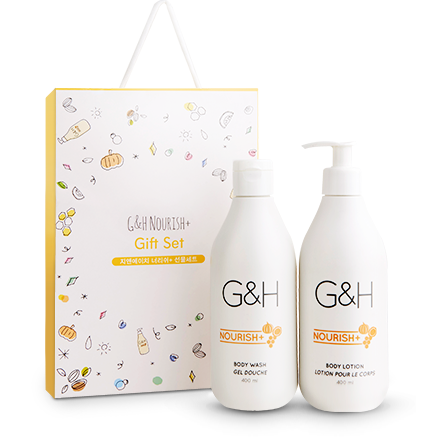
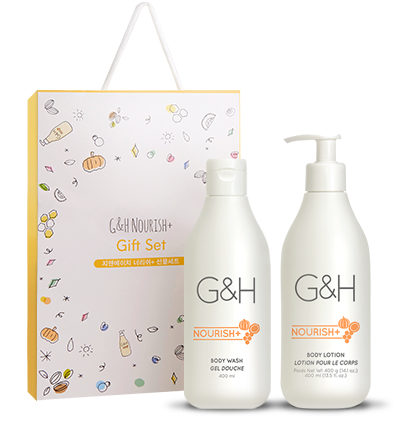
마이그레이션 베스바디

diff --git a/_ui/responsive/theme-blue/css/akl-product.css b/_ui/responsive/theme-blue/css/akl-product.css
@@ -149,6 +149,7 @@ iframe {border:0;}
 .visual-area.type02.verganic-botanical{background: #ffffff url(../images/akl_product/bath-body/bg_verganic_jojoba.png) no-repeat top center;height:924px;} /* 베르가닉 호호바 */
 .visual-area.type02.child-tooth{background: #ffffff url(../images/akl_product/bath-body/bg_child_tooth.png) no-repeat top center;height:1012px;} /* 오랄케어 */
 .visual-area.type04.bath-gift-s{background: #ffffff url(../images/akl_product/bath-body/bg_gift_set_s.png) no-repeat top center;height:851px;} /* 기프트세트 mini */
+.visual-area.type04.bath-gift-s02{background: #ffffff url(../images/akl_product/bath-body/bg_gift_set_s_02.png) no-repeat top center;height:834px;} /* 기프트세트 mini */
 .visual-area.type04.bath-gift-ss{background: #ffffff url(../images/akl_product/bath-body/bg_gift_set_ss.png) no-repeat top center;height:775px;} /* 기프트세트 mini */
 .visual-area.type04.bath-gift-s .v-pro, .visual-area.type04.bath-gift-ss .v-pro{margin-top:60px;}
 .visual-area.type02.dayblock{background: #ffffff url(../images/akl_product/bath-body/bg_dayblock_sun.png) no-repeat top center;height:976px;} /* 데이블럭 썬케어  */

diff --git a/_ui/responsive/html/product/bath_body/giftset/BB_1302_personar_care_essential_gift_set.html b/_ui/responsive/html/product/bath_body/giftset/BB_1302_personar_care_essential_gift_set.html
@@ -60,7 +60,7 @@
 									<div class="product-body-view bath-body">
 
 										<!-- 비주얼 영역 -->
-										<div class="visual-area type04 bath-gift-s">
+										<div class="visual-area type04 bath-gift-s02">
 											<div class="v-logo none">&nbsp;</div>
 											<div class="txt-info-visual">
 												<div class="v-logo-txt">퍼스널케어 대표 제품을 전하세요</div>
